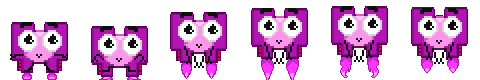
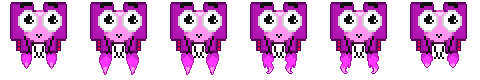
frame päivityksiä

diff --git a/player.py b/player.py
@@ -53,7 +53,7 @@ class Player:
         umbrella_shoot_sprite = pygame.image.load("Imgs/boostit/purkkavarjo_shooting_frame.png").convert_alpha()
         umbrella_shoot_sheet = SpriteSheet(umbrella_shoot_sprite)
 
-        jetpack_sprite = pygame.image.load("Imgs/boostit/jetpack_framet2.png").convert_alpha()
+        jetpack_sprite = pygame.image.load("Imgs/boostit/jetpack_framet.png").convert_alpha()
         jetpack_sheet = SpriteSheet(jetpack_sprite)
 
         jetpack_shoot_sprite = pygame.image.load("Imgs/boostit/jetpack_shooting_frames.png").convert_alpha()
